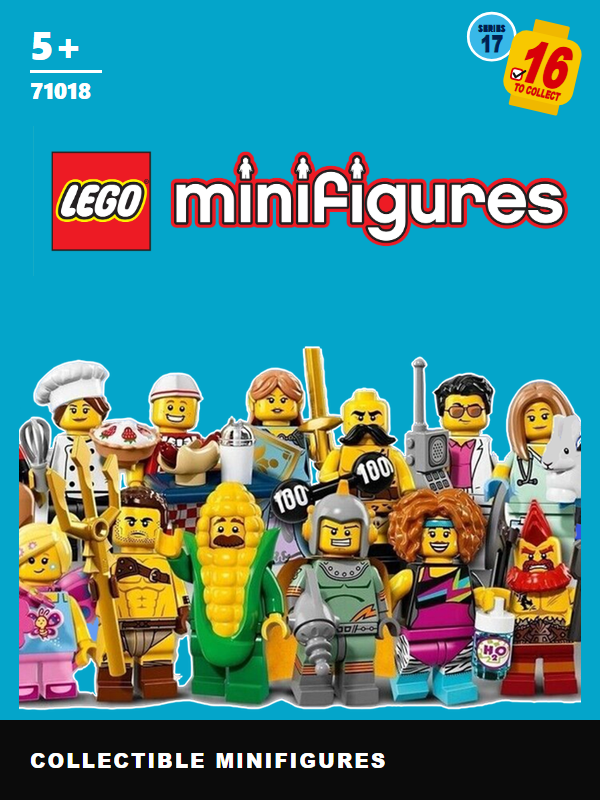
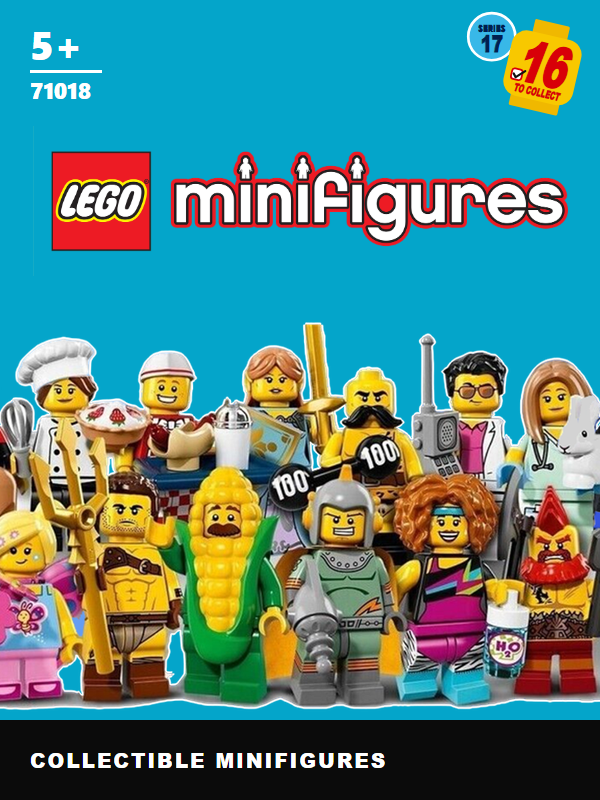
fix(V2-11): cut crowds bleed to both card edges (71018 71025 71027 8805 71001)

diff --git a/scripts/build_cards.py b/scripts/build_cards.py
@@ -171,7 +171,16 @@ def group_fit(sid, count):
         im = drop_fragments(im.crop((gap_cut(a, x0, win), 0, gap_cut(a, w - x0, win), h)))
         im = im.crop(im.split()[-1].getbbox())
         w, h = im.size
-        scale = min(scale, 600 / w)                         # the gap snap can widen the cut a little
+        # A cut crowd must bleed to both card edges, or the straight cut shows inside the card (owner 2026-11-14:
+        # "the grouped image ends on both sides before the edges of the card"). The gap snap and fragment drop can
+        # narrow it, so fit the width exactly; if that makes it too tall, keep the height cap and trim the sides.
+        scale = 600 / w
+        if h * scale > GROUP_H:
+            scale = GROUP_H / h
+            keep = round(600 / scale)
+            x0 = (w - keep) // 2
+            im = im.crop((x0, 0, x0 + keep, h))
+            w = keep
         cut = True
     return im, round(w * scale), round(h * scale), cut
 
